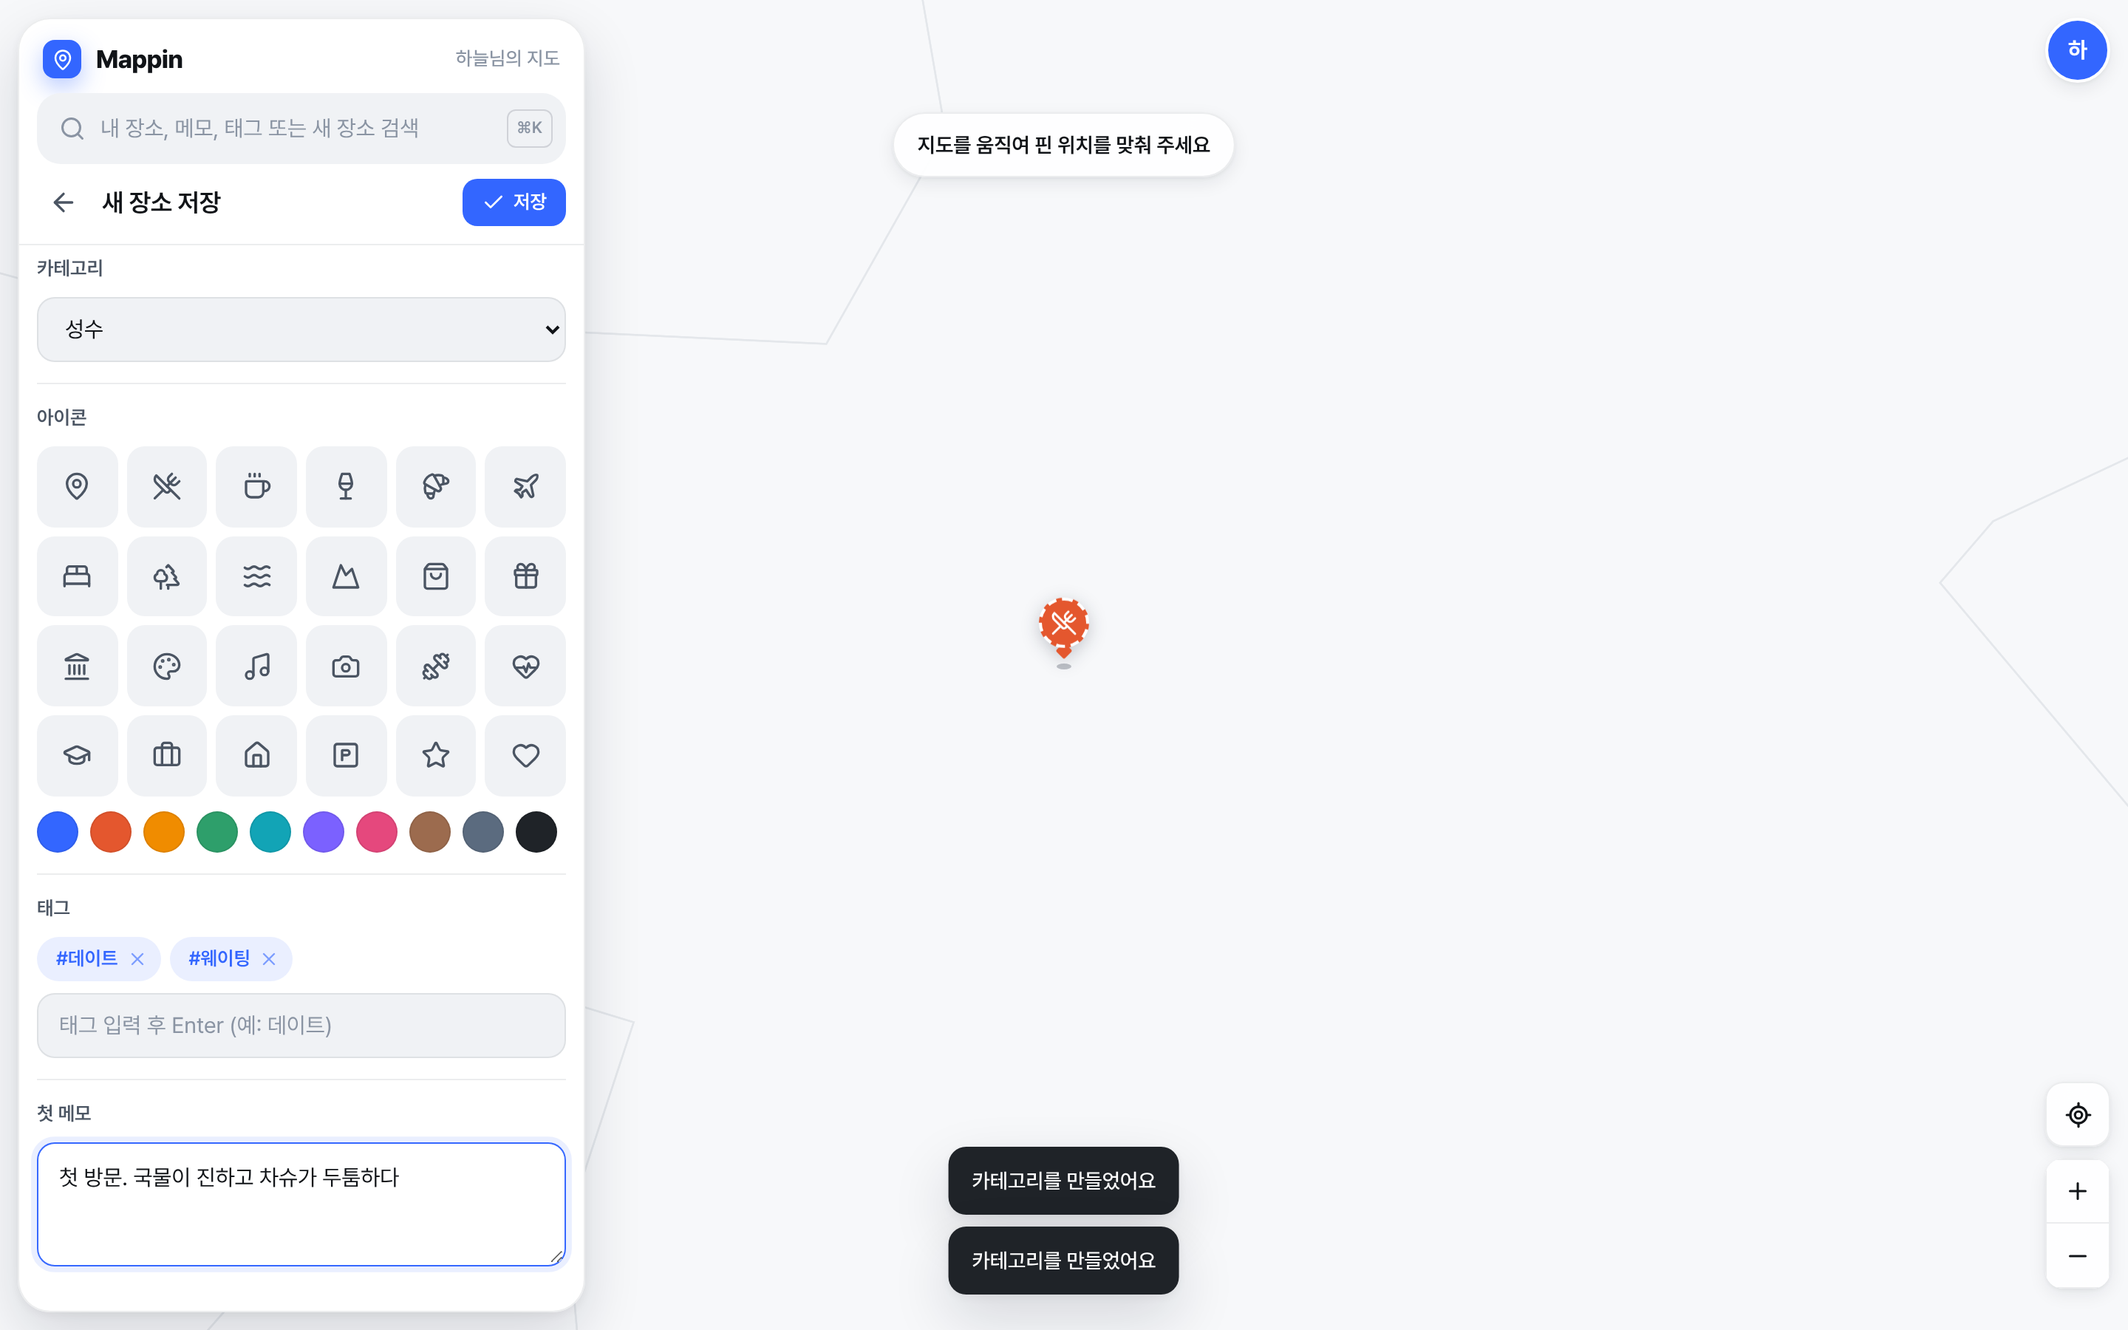
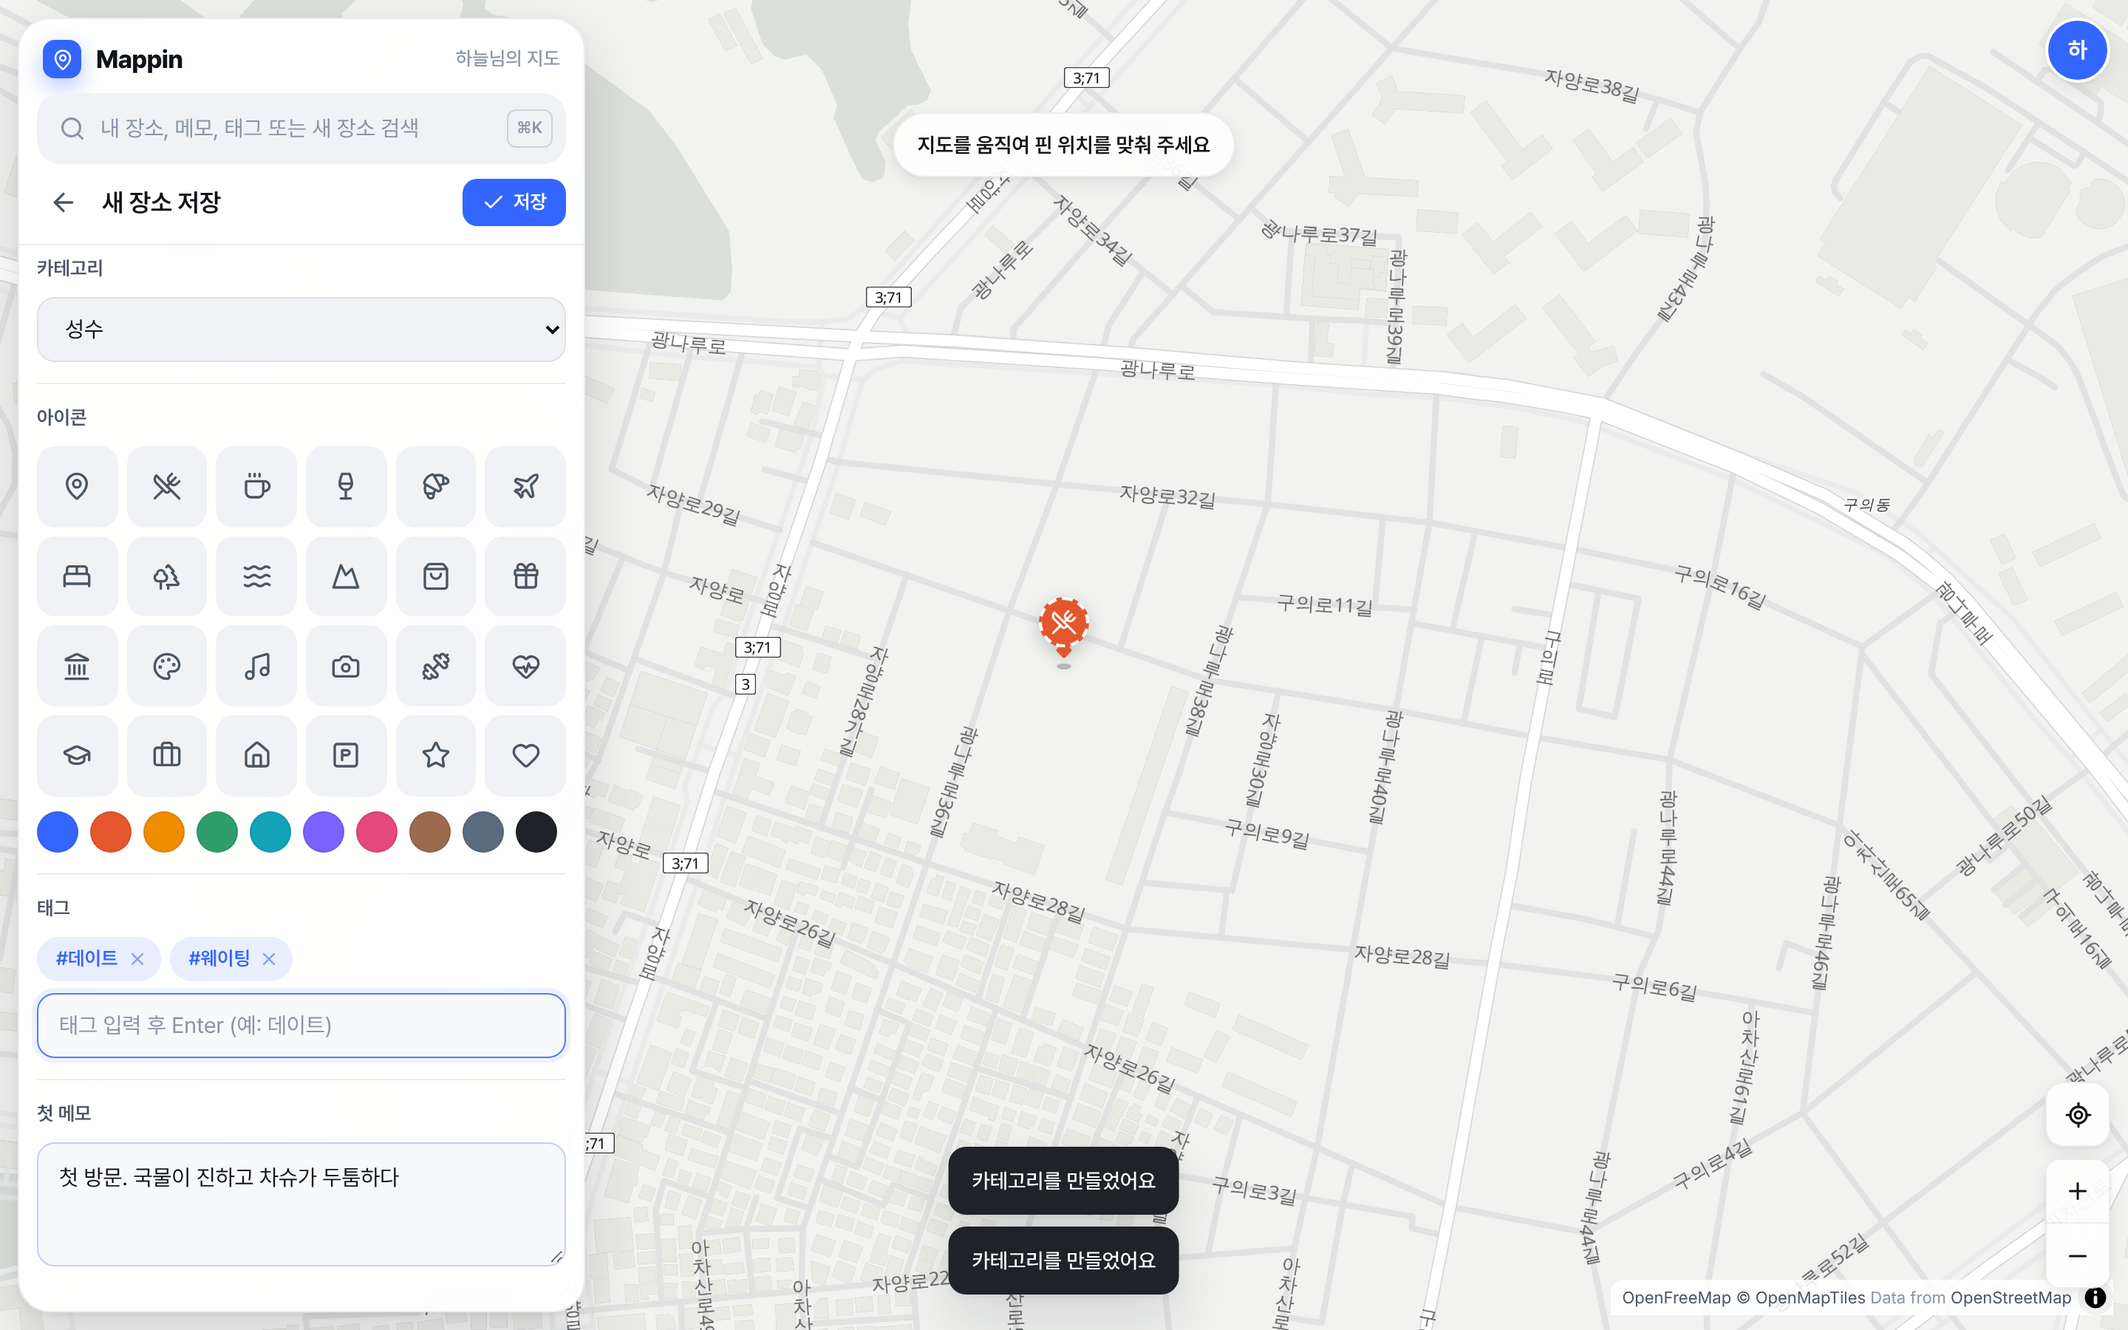
Verify mapping on real tiles: Korean labels, Korean-order addresses, map verification script
- Map: label layers show name:ko → name on one line (OpenFreeMap default is
  'Latin + local'); MapHandle gains project/unproject (MapLibre, Kakao)
- Geocoding: build Korean-order addresses from Nominatim parts instead of
  display_name (unit tests)
- scripts/verify-map.mjs (pnpm verify:map): tiles/glyphs load, Korean labels,
  pin tip vs projection (0px), long-press save (0m), reverse geocoding, search
  save (14m off Lotte World Tower), dark style — 10/10 on real OpenFreeMap/Nominatim
- Screenshots retaken on the real map; docs/07 §7 records results

Claude-Session: https://claude.ai/code/session_017aYJYkFTftWKqDsobmPGUE

diff --git a/apps/web/src/map/maplibre.ts b/apps/web/src/map/maplibre.ts
@@ -24,6 +24,9 @@ export const maplibreProvider: MapProvider<HTMLElement> & { setStyle?(h: MapHand
       fadeDuration: 150,
     });
     map.touchZoomRotate.disableRotation();
+    // 라벨 현지화: OpenMapTiles 기본 "영문 + 현지어" 2줄 표기를 사용자 언어 우선 1줄로 (없으면 현지 이름)
+    const lang = (opts.locale ?? 'ko').split('-')[0];
+    map.on('style.load', () => localizeLabels(map, lang));
     // 스타일 로딩 실패(예: 다크 스타일 미제공) 시 기본 스타일로 대체
     let fellBack = false;
     map.on('error', (e: any) => {
@@ -105,6 +108,14 @@ export const maplibreProvider: MapProvider<HTMLElement> & { setStyle?(h: MapHand
         el.style.cssText = 'width:16px;height:16px;border-radius:50%;background:#3366FF;border:3px solid #fff;box-shadow:0 0 0 6px rgba(51,102,255,.2)';
         userDot = new ml.Marker({ element: el }).setLngLat([p.lng, p.lat]).addTo(map);
       },
+      project(p) {
+        const pt = map.project([p.lng, p.lat]);
+        return { x: pt.x, y: pt.y };
+      },
+      unproject(pt) {
+        const ll = map.unproject([pt.x, pt.y]);
+        return { lat: ll.lat, lng: ll.lng };
+      },
       on(event, h) {
         (handlers[event] as Set<any>).add(h);
         return () => (handlers[event] as Set<any>).delete(h);
@@ -120,3 +131,13 @@ export const maplibreProvider: MapProvider<HTMLElement> & { setStyle?(h: MapHand
     (h as any)._map?.setStyle(url);
   },
 };
+
+/** text-field가 name:latin/name:nonlatin 조합인 라벨 레이어를 `name:<lang>` → `name` 순서로 바꾼다 */
+export function localizeLabels(map: MLMap, lang: string) {
+  const field = ['coalesce', ['get', `name:${lang}`], ['get', 'name'], ['get', 'name:latin']];
+  for (const layer of map.getStyle()?.layers ?? []) {
+    if (layer.type !== 'symbol') continue;
+    const tf = map.getLayoutProperty(layer.id, 'text-field');
+    if (tf && JSON.stringify(tf).includes('name:latin')) map.setLayoutProperty(layer.id, 'text-field', field as any);
+  }
+}

diff --git a/apps/server/src/lib/geo.ts b/apps/server/src/lib/geo.ts
@@ -116,20 +116,30 @@ export class NominatimGeo implements GeoProvider {
     };
   }
   async reverse(lat: number, lng: number): Promise<GeoAddress | null> {
-    const r = await this.get('/reverse', { lat: String(lat), lon: String(lng), addressdetails: '1' });
+    const r = await this.get('/reverse', { lat: String(lat), lon: String(lng), addressdetails: '1', zoom: '18' });
     if (!r?.address) return null;
-    const a = r.address;
-    return {
-      road: r.display_name ?? null,
-      jibun: null,
-      postal_code: a.postcode ?? null,
-      region_1: a.state ?? a.city ?? null,
-      region_2: a.city_district ?? a.borough ?? a.county ?? null,
-      region_3: a.quarter ?? a.suburb ?? a.neighbourhood ?? null,
-      country_code: a.country_code ? String(a.country_code).toUpperCase() : null,
-      source: 'osm',
-    };
+    return nominatimAddress(r.address);
   }
+}
+
+/** Nominatim 주소 요소 → 큰 단위부터 쓰는 한국식 표기 (display_name은 작은 단위부터라 쓰지 않는다) */
+export function nominatimAddress(a: Record<string, string>): GeoAddress {
+  const region1 = a.province ?? a.state ?? a.city ?? null;
+  const city = a.city && a.city !== region1 ? a.city : null;
+  const region2 = a.borough ?? a.city_district ?? a.county ?? a.town ?? null;
+  const region3 = a.quarter ?? a.suburb ?? a.neighbourhood ?? a.village ?? null;
+  const join = (...xs: (string | null | undefined)[]) => xs.filter(Boolean).join(' ') || null;
+  const road = a.road ? join(region1, city, region2, a.road, a.house_number) : null;
+  return {
+    road,
+    jibun: join(region1, city, region2, region3),
+    postal_code: a.postcode ?? null,
+    region_1: region1,
+    region_2: region2,
+    region_3: region3,
+    country_code: a.country_code ? a.country_code.toUpperCase() : null,
+    source: 'osm',
+  };
 }
 
 export function deeplinkFor(provider: string, externalId: string): string | null {

diff --git a/apps/server/test/geo.test.ts b/apps/server/test/geo.test.ts
@@ -1,0 +1,17 @@
+import { describe, expect, it } from 'vitest';
+import { nominatimAddress } from '../src/lib/geo.js';
+
+describe('nominatimAddress', () => {
+  it('builds Korean-order addresses from Nominatim parts (Seoul)', () => {
+    // 실제 응답 (37.5444, 127.0374 — 서울숲)
+    const a = nominatimAddress({ road: '서울숲 남산길', quarter: '성수동1가', suburb: '성수1가1동', borough: '성동구', city: '서울특별시', postcode: '04769', country_code: 'kr' });
+    expect(a).toMatchObject({ road: '서울특별시 성동구 서울숲 남산길', jibun: '서울특별시 성동구 성수동1가', postal_code: '04769', region_1: '서울특별시', region_2: '성동구', country_code: 'KR', source: 'osm' });
+  });
+  it('keeps province and city for non-metropolitan areas', () => {
+    const a = nominatimAddress({ road: '중앙로', house_number: '12', city: '수원시', borough: '팔달구', province: '경기도', country_code: 'kr' });
+    expect(a.road).toBe('경기도 수원시 팔달구 중앙로 12');
+  });
+  it('returns null road when only area is known', () => {
+    expect(nominatimAddress({ city: '서울특별시', borough: '중구' }).road).toBeNull();
+  });
+});

diff --git a/apps/web/src/map/kakao.ts b/apps/web/src/map/kakao.ts
@@ -101,6 +101,14 @@ export const kakaoProvider: MapProvider<HTMLElement> = {
         userDot = new k.CustomOverlay({ position: new k.LatLng(p.lat, p.lng), content: el });
         userDot.setMap(map);
       },
+      project(p) {
+        const pt = map.getProjection().containerPointFromCoords(new k.LatLng(p.lat, p.lng));
+        return { x: pt.x, y: pt.y };
+      },
+      unproject(pt) {
+        const ll = map.getProjection().coordsFromContainerPoint(new k.Point(pt.x, pt.y));
+        return { lat: ll.getLat(), lng: ll.getLng() };
+      },
       on(event, h) {
         (handlers[event] as Set<any>).add(h);
         return () => (handlers[event] as Set<any>).delete(h);

diff --git a/packages/map-core/src/index.ts b/packages/map-core/src/index.ts
@@ -68,6 +68,9 @@ export interface MapHandle {
   setMarkers(markers: readonly MarkerSpec[]): void;
   /** 내 위치 점 표시 (권한 획득은 앱 레이어 책임) */
   setUserLocation(position: LatLng | null, accuracyM?: number): void;
+  /** 지도 좌표 ↔ 화면 픽셀 (지도 컨테이너 기준) */
+  project(position: LatLng): { x: number; y: number };
+  unproject(point: { x: number; y: number }): LatLng;
   on<E extends keyof MapEvents>(event: E, handler: (e: MapEvents[E]) => void): Unsubscribe;
   destroy(): void;
 }

diff --git a/apps/web/src/components/MapView.tsx b/apps/web/src/components/MapView.tsx
@@ -50,6 +50,8 @@ export function MapView(p: Props) {
       .then((h) => {
         if (disposed) return h.destroy();
         handle.current = h;
+        // 지도 검증용 (scripts/verify-map.mjs): ?debug=map 일 때만 노출
+        if (new URLSearchParams(location.search).get('debug') === 'map') (window as any).__mappinMap = h;
         h.on('cameraIdle', (e) => cb.current.onCameraIdle?.(e));
         h.on('click', (e) => cb.current.onClick?.(e));
         h.on('longPress', (e) => cb.current.onLongPress?.(e));

diff --git a/docs/07-p0-report.md b/docs/07-p0-report.md
@@ -62,7 +62,7 @@
 | 한글 타이포 | Pretendard Variable을 자체 호스팅하고, 숫자는 tabular-nums를 씁니다 |
 | 해요체 마이크로카피 | "저장했어요", "아직 저장한 장소가 없어요", 되돌리기 토스트 |
 
-스크린샷(E2E 실행 중 자동 캡처, 오프라인 데모 지도 사용):
+스크린샷(E2E 실행 중 자동 캡처, 실제 지도 OpenFreeMap · 2026-11-20 재촬영):
 
 | 데스크톱 목록 | 장소 상세·타임라인 | 메모 수정 이력 |
 |---|---|---|
@@ -108,8 +108,8 @@
 
 | 항목 | 상태 |
 |---|---|
-| 실제 지도 타일 | 이 클라우드 환경은 타일 서버(OpenFreeMap)가 네트워크 정책으로 막혀 있어, 스크린샷은 서울 행정경계로 만든 **오프라인 데모 지도**(`MAP_STYLE=demo`)로 찍었습니다. 기본 설정(`openfreemap`)으로 실행하면 실제 지도가 나옵니다 |
-| 외부 장소 검색 | Nominatim과 Kakao Local에 연결할 수 없어 UI의 "새 장소 찾기"는 이 환경에서 오류 메시지를 보여줍니다. 서버 로직은 가짜 공급자로 테스트했습니다. `KAKAO_REST_KEY`를 설정하면 Kakao로 동작합니다 |
+| 실제 지도 타일 | ✅ 2026-11-20 검증 완료 (§7). 처음에는 클라우드 환경에서 타일 서버가 막혀 데모 지도로 찍었으나, 허용 후 실제 지도로 다시 검증·재촬영했습니다 |
+| 외부 장소 검색·주소 | ✅ OpenStreetMap(Nominatim)으로 실제 검증 완료 (§7). Kakao Local은 키가 없어 미검증 — `KAKAO_REST_KEY`를 설정하면 Kakao로 동작합니다 |
 | Kakao 지도 어댑터 | 구현은 했지만 키와 네트워크가 없어 **실제 SDK로 검증하지 못했습니다**. 키를 발급받은 뒤 확인이 필요합니다. SDK 로딩에 실패하면 MapLibre로 자동 전환됩니다 |
 | 소셜 로그인 | 서버 검증은 테스트했지만, 클라이언트 버튼과 OAuth 앱 등록은 키를 받은 뒤 붙여야 합니다 |
 | 메일 발송 | `SMTP_URL`을 설정하면 실제로 발송합니다. 없으면 API 로그에만 출력됩니다 |
@@ -138,3 +138,30 @@ pnpm dev
 `http://localhost:3000`이 열립니다. 테스트는 `pnpm --filter @mappin/server test`(TEST_DATABASE_URL 필요)와 `pnpm e2e`(서버를 띄운 상태)로 돌립니다.
 
 GitHub Codespaces를 쓰려면 저장소 페이지에서 **Code → Codespaces → Create codespace**를 누르세요. DB, 마이그레이션, 개발 서버가 자동으로 뜨고 3000번 포트가 브라우저로 열립니다.
+
+## 7. 실제 지도 매핑 검증 (2026-11-20)
+
+`pnpm verify:map` (`scripts/verify-map.mjs`) — 실제 타일(OpenFreeMap)과 실제 지오코딩(Nominatim)으로 확인했습니다. **10/10 통과.**
+
+| 항목 | 결과 |
+|---|---|
+| 배경지도 스타일·타일·글꼴 로드 | 오류 0건 |
+| 라벨 한국어 한 줄 표기 | 화면 라벨 142개 중 한글 142개 (아래 개선 ①) |
+| 핀 위치 정확도 (N서울타워·광화문·서울숲·해운대, 줌 16) | 핀 끝과 지도 투영 좌표 차이 **0.00px** |
+| 길게 누른(우클릭) 지점 저장 | 누른 지점과 저장 좌표 차이 **0.00m** |
+| 역지오코딩 주소 | N서울타워 → 서울특별시 용산구 남산공원길 105 · 광화문 → 서울특별시 종로구 사직로 161 · 서울숲 → 서울특별시 성동구 서울숲 남산길 · 해운대해수욕장 → 부산광역시 해운대구 해운대해변로209번길 (아래 개선 ②) |
+| 장소 검색으로 저장 (롯데월드타워) | 실제 위치와 **14m** 차이, 외부 참조 `osm:` ID만 저장 |
+| 다크 모드 | 다크 지도 스타일로 전환 (배경 `rgb(12,12,12)`) |
+
+검증하며 고친 것
+1. **라벨 현지화**: OpenFreeMap 기본 스타일은 "Gwangnaru-ro 광나루로"처럼 영문·현지어를 함께 표시해 어수선했습니다. → `name:ko` → `name` 순으로 한 줄만 표시 (`apps/web/src/map/maplibre.ts` `localizeLabels`)
+2. **한국식 주소**: Nominatim의 `display_name`은 "서울숲 남산길, 성수동1가, …, 대한민국"처럼 작은 단위부터 나열됩니다. → 주소 요소를 조립해 "서울특별시 성동구 서울숲 남산길"로 저장 (`nominatimAddress`, 단위 테스트 3개)
+3. 지도 어댑터 인터페이스에 `project`/`unproject` 추가 (좌표 ↔ 화면 픽셀, 검증과 이후 팝오버 배치에 사용)
+
+| 한국어 라벨 · 서울숲 핀 | 검색으로 저장 (다크) |
+|---|---|
+| ![](screenshots/map-pin-seoulforest.png) | ![](screenshots/map-dark.png) |
+
+남은 관찰
+- OpenFreeMap `dark` 스타일은 거의 검은색이라 라벨 대비가 낮습니다. 다크 모드 가독성을 높이려면 다크 스타일의 라벨 색을 밝게 덮어쓰는 조정이 필요합니다 (P1).
+- 해외처럼 한국어 이름이 없는 곳은 현지 이름으로 표시됩니다 (예: "Cherry Tree Path").

diff --git a/docs/02-map-provider-research.md b/docs/02-map-provider-research.md
@@ -9,7 +9,7 @@
 | **원칙** | 사용자 데이터(좌표·메모·태그 등)는 **우리 DB가 원본**이다. 지도사는 "배경지도 + 검색 도구"로만 쓰고, `MapProvider` 어댑터 뒤에 숨긴다 |
 | **국내 기본 (MVP 웹)** | **Kakao Maps** — 지도 SDK와 로컬(장소·주소·카테고리) 검색 API를 같은 공급자로 맞춘다 |
 | **국내 대안 (상시 대기)** | **Naver Maps (NCP Maps)** — 어댑터로 언제든 전환할 수 있게 둔다. 모바일 RN 래퍼 성숙도가 높아 P1 모바일에서 다시 검토한다 |
-| **해외·장애 대비** | **MapLibre GL + OpenStreetMap 벡터타일** (OpenFreeMap 또는 Protomaps PMTiles 자체 호스팅). 공급자 종속이 없는 최종 안전판 |
+| **해외·장애 대비** | **MapLibre GL + OpenStreetMap 벡터타일** (OpenFreeMap 또는 Protomaps PMTiles 자체 호스팅). 공급자 종속이 없는 최종 안전판. P0 웹의 현재 기본 지도이며 2026-11-20 실제 타일로 검증 (docs/07 §7) |
 | **주소 정규화** | **행정안전부 도로명주소 API(juso.go.kr)**와 **브이월드** — 공공데이터라 저장·재사용 제약이 적다 (이용허락범위는 출시 전에 확인) |
 | **Google Maps** | 2026-02 고정밀 지도 반출이 조건부로 허가됐지만 2026-10 현재 국내 길찾기는 아직 출시되지 않았다. **2027년 해외 확장 시점에 다시 평가**한다 |
 

diff --git a/docs/08-self-hosting.md b/docs/08-self-hosting.md
@@ -139,6 +139,7 @@ docker compose start api
 | 지도가 회색으로만 보임 | 서버나 휴대폰에서 `tiles.openfreemap.org`에 접속이 막혔을 수 있습니다. 사내망이라면 방화벽을 확인하세요 |
 | '새 장소 찾기' 검색 실패 | 키가 없으면 OpenStreetMap(Nominatim) 공개 서버를 씁니다. 사용 정책상 초당 1회 수준만 허용되므로 실사용은 카카오 키를 권장합니다 |
 | 메모리 부족으로 빌드 실패 | swap을 추가하세요: `sudo fallocate -l 2G /swapfile && sudo chmod 600 /swapfile && sudo mkswap /swapfile && sudo swapon /swapfile` |
+| 주소가 비어 있고 '새 장소 찾기'가 실패함 (사내망 등 HTTP 프록시 환경) | Node.js 서버는 기본적으로 프록시 환경변수를 따르지 않습니다. `deploy/docker-compose.yml`의 `api` 서비스에 `HTTPS_PROXY`와 `NODE_USE_ENV_PROXY: "1"`을 추가하세요 (프록시 인증서가 따로 있다면 `NODE_EXTRA_CA_CERTS`도) |
 | "요청이 너무 많아요" (429) | 같은 IP 기준으로 로그인 관련은 분당 20회, 검색은 60회, 일반 API는 300회로 제한합니다 |
 
 ## 6. 이미 nginx 같은 웹서버가 80/443을 쓰고 있다면

diff --git a/CLAUDE.md b/CLAUDE.md
@@ -32,4 +32,5 @@
 - 서버: `pnpm --filter @mappin/server test` (`TEST_DATABASE_URL`에 PostGIS DB 필요)
 - 타입: `pnpm typecheck`
 - 브라우저 E2E: 서버를 띄운 뒤 `pnpm e2e` (네트워크가 막힌 환경에서는 `pnpm demo:basemap` + `MAP_STYLE=demo`)
-- 로컬 실행: `scripts/serve-local.sh` (빌드된 웹 + API)
+- 지도 매핑: 서버를 `MAP_STYLE=openfreemap`으로 띄운 뒤 `pnpm verify:map` (실제 타일·지오코딩 필요. 핀 위치·저장 좌표·주소·검색·한글 라벨·다크 스타일)
+- 로컬 실행: `scripts/serve-local.sh` (빌드된 웹 + API). 클라우드 세션처럼 HTTP 프록시를 거쳐야 하는 곳에서는 `NODE_USE_ENV_PROXY=1`(+ 프록시 CA는 `NODE_EXTRA_CA_CERTS`)을 붙여야 서버가 지오코딩 서버에 닿습니다

diff --git a/README.md b/README.md
@@ -89,6 +89,12 @@ API 서버 통합 테스트 (PostGIS DB 필요, `TEST_DATABASE_URL`):
 pnpm --filter @mappin/server test
 ```
 
+지도 매핑 검증 (실제 타일·지오코딩, 서버가 떠 있는 상태):
+
+```bash
+pnpm verify:map
+```
+
 브라우저 E2E (서버가 떠 있는 상태):
 
 ```bash
